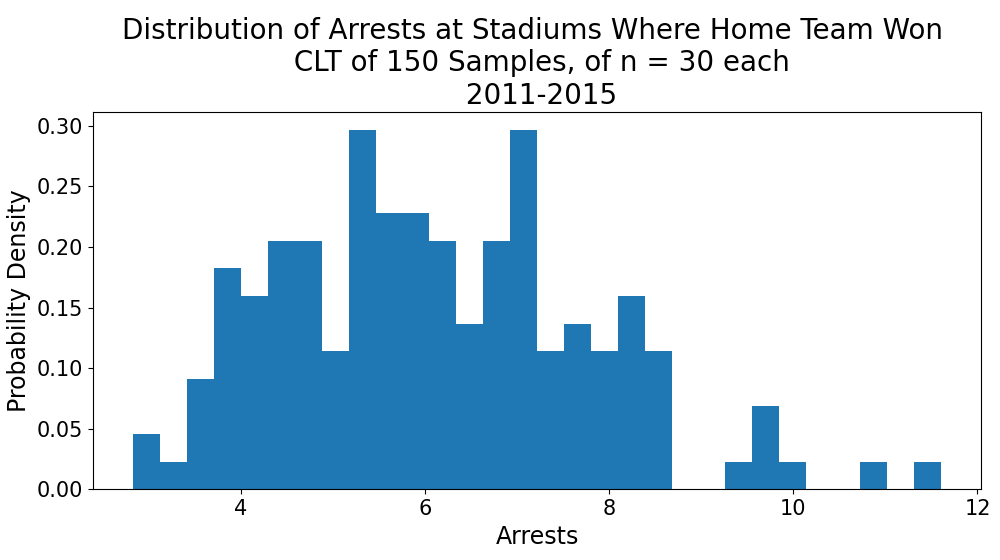
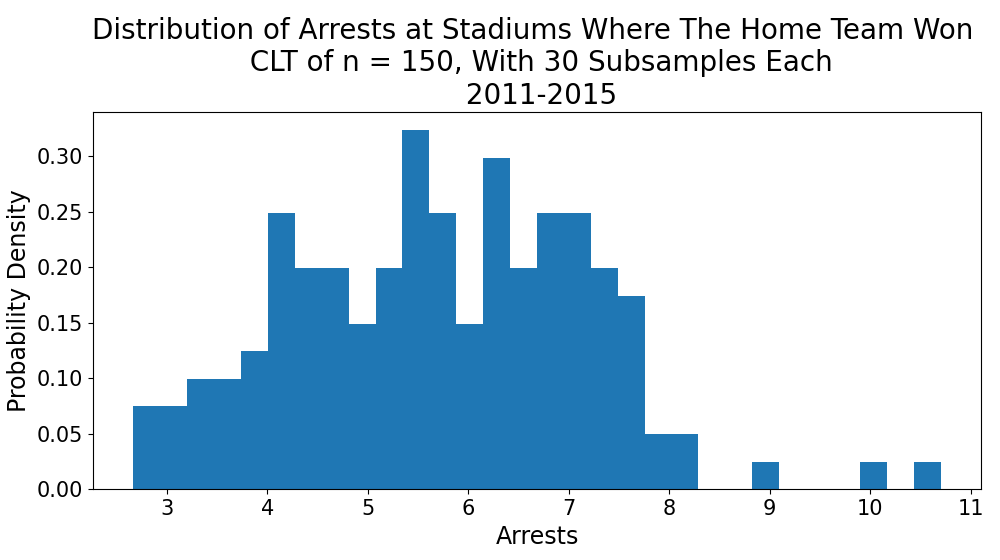
add simulated dist of clt mean for arrests

diff --git a/main.py b/main.py
@@ -248,19 +248,19 @@ pyplot.subplots_adjust(    top=top_p,
 pyplot.savefig('mt_avearrest_sc.png')
 
 
-pyplot.figure(figsize=(pt_x_size, pt_y_size), dpi=100)
-pyplot.hist(score_games_lessthan_6_home, bins=30, density= True)
-pyplot.xlabel('Points', fontsize = axis_size)
-pyplot.ylabel('Probability Density' , fontsize = axis_size)
-pyplot.tick_params(axis='both', labelsize=tick_sz)
-pyplot.title(label = "Distribution of Home Team Scores:\n Stadiums With Less Than The Mean Arrests at The Stadium\n 2011-2015", fontsize = title_sz)
-pyplot.subplots_adjust(    top=top_p,
-    bottom=bot_p,
-    left=left_p,
-    right=right_p,
-    hspace=hspace,
-    wspace=wspace)
-pyplot.savefig('lt_avearrest_sc.png')
+# pyplot.figure(figsize=(pt_x_size, pt_y_size), dpi=100)
+# pyplot.hist(score_games_lessthan_6_home, bins=30, density= True)
+# pyplot.xlabel('Points', fontsize = axis_size)
+# pyplot.ylabel('Probability Density' , fontsize = axis_size)
+# pyplot.tick_params(axis='both', labelsize=tick_sz)
+# pyplot.title(label = "Distribution of Home Team Scores:\n Stadiums With Less Than The Mean Arrests at The Stadium\n 2011-2015", fontsize = title_sz)
+# pyplot.subplots_adjust(    top=top_p,
+#     bottom=bot_p,
+#     left=left_p,
+#     right=right_p,
+#     hspace=hspace,
+#     wspace=wspace)
+# pyplot.savefig('lt_avearrest_sc.png')
 
 
 
@@ -279,19 +279,19 @@ pyplot.subplots_adjust(    top=top_p,
     wspace=wspace)
 pyplot.savefig('clt_mean_arrests.png')
 
-pyplot.figure(figsize=(pt_x_size, pt_y_size), dpi=100)
-pyplot.hist(clt_var_arrests, bins=100, density=True)
-pyplot.xlabel('Sample Variances of Arrests', fontsize = axis_size)
-pyplot.ylabel('Probability Density' , fontsize = axis_size)
-pyplot.tick_params(axis='both', labelsize=tick_sz)
-pyplot.title(label = "Distribution of the Sample Variances of Arrests \n 300 samples, each sample of n = 30 each \n 2011-2015", fontsize = title_sz)
-pyplot.subplots_adjust(    top=top_p,
-    bottom=bot_p,
-    left=left_p+.039,
-    right=right_p,
-    hspace=hspace,
-    wspace=wspace)
-pyplot.savefig('clt_var_arrests.png')
+# pyplot.figure(figsize=(pt_x_size, pt_y_size), dpi=100)
+# pyplot.hist(clt_var_arrests, bins=100, density=True)
+# pyplot.xlabel('Sample Variances of Arrests', fontsize = axis_size)
+# pyplot.ylabel('Probability Density' , fontsize = axis_size)
+# pyplot.tick_params(axis='both', labelsize=tick_sz)
+# pyplot.title(label = "Distribution of the Sample Variances of Arrests \n 300 samples, each sample of n = 30 each \n 2011-2015", fontsize = title_sz)
+# pyplot.subplots_adjust(    top=top_p,
+#     bottom=bot_p,
+#     left=left_p+.039,
+#     right=right_p,
+#     hspace=hspace,
+#     wspace=wspace)
+# pyplot.savefig('clt_var_arrests.png')
 
 
 #--Home team wins, dist of arrests
@@ -301,7 +301,7 @@ pyplot.hist(ht_win_arrests_clt, bins=30, density= True)
 pyplot.xlabel('Arrests', fontsize = axis_size)
 pyplot.ylabel('Probability Density' , fontsize = axis_size)
 pyplot.tick_params(axis='both', labelsize=tick_sz)
-pyplot.title(label = "Distribution of Arrests at Stadiums Where Home Team Won \n CLT of 150 Samples, of n = 30 each\n 2011-2015", fontsize = title_sz)
+pyplot.title(label = "Distribution of Arrests at Stadiums Where The Home Team Won \n CLT of n = 150, With 30 Subsamples Each\n 2011-2015", fontsize = title_sz)
 pyplot.subplots_adjust(    top=top_p,
     bottom=bot_p,
     left=left_p,
@@ -316,7 +316,7 @@ pyplot.hist(ht_loss_arrests_clt, bins=30, density= True)
 pyplot.xlabel('Arrests', fontsize = axis_size)
 pyplot.ylabel('Probability Density' , fontsize = axis_size)
 pyplot.tick_params(axis='both', labelsize=tick_sz)
-pyplot.title(label = "Distribution of Arrests at Stadiums Where Home Team Lost \n CLT of 150 Samples, of n = 30 each\n 2011-2015", fontsize = title_sz)
+pyplot.title(label = "Distribution of Arrests at Stadiums Where The Home Team Lost \n CLT of n = 150 Samples, With 30 Subsamples Each\n 2011-2015", fontsize = title_sz)
 pyplot.subplots_adjust(    top=top_p,
     bottom=bot_p,
     left=left_p,
@@ -334,48 +334,48 @@ pyplot.savefig('ht_loss_arr.png')
 # pyplot.hist(lose_lt_12,bins = 30, density=True)
 # pyplot.gca().set(title='Distribution of Arrests from games where the home team \nlost by less than the mean point diff',
 #                  xlabel='Arrests', ylabel='Probability')
+#
+# pyplot.figure(figsize=(pt_x_size, pt_y_size), dpi=100)
+# pyplot.hist(score_games_morethan_6_total, bins=30, density= True)
+# pyplot.xlabel('Total Points', fontsize = axis_size)
+# pyplot.ylabel('Probability Density' , fontsize = axis_size)
+# pyplot.tick_params(axis='both', labelsize=tick_sz)
+# pyplot.title(label = "Distribution of Total Points Scored, by Games With \n Above Mean Arrests"
+#                      "\n 2011-2015", fontsize = title_sz)
+# pyplot.subplots_adjust(    top=top_p,
+#     bottom=bot_p,
+#     left=left_p+.03,
+#     right=right_p,
+#     hspace=hspace,
+#     wspace=wspace)
+# pyplot.savefig('tot_points_above_mean.png')
+#
+# pyplot.figure(figsize=(pt_x_size, pt_y_size), dpi=100)
+# pyplot.hist(score_games_lessthan_6_total, bins=30, density= True)
+# pyplot.xlabel('Total Points', fontsize = axis_size)
+# pyplot.ylabel('Probability Density' , fontsize = axis_size)
+# pyplot.tick_params(axis='both', labelsize=tick_sz)
+# pyplot.title(label = "Distribution of Total Points Scored, by Games With \n Less Than Mean Arrests"
+#                      "\n 2011-2015", fontsize = title_sz)
+# pyplot.subplots_adjust(    top=top_p,
+#     bottom=bot_p,
+#     left=left_p+.03,
+#     right=right_p,
+#     hspace=hspace,
+#     wspace=wspace)
+# pyplot.savefig('tot_points_below_mean.png')
 
-pyplot.figure(figsize=(pt_x_size, pt_y_size), dpi=100)
-pyplot.hist(score_games_morethan_6_total, bins=30, density= True)
-pyplot.xlabel('Total Points', fontsize = axis_size)
-pyplot.ylabel('Probability Density' , fontsize = axis_size)
-pyplot.tick_params(axis='both', labelsize=tick_sz)
-pyplot.title(label = "Distribution of Total Points Scored, by Games With \n Above Mean Arrests"
-                     "\n 2011-2015", fontsize = title_sz)
-pyplot.subplots_adjust(    top=top_p,
-    bottom=bot_p,
-    left=left_p+.03,
-    right=right_p,
-    hspace=hspace,
-    wspace=wspace)
-pyplot.savefig('tot_points_above_mean.png')
-
-pyplot.figure(figsize=(pt_x_size, pt_y_size), dpi=100)
-pyplot.hist(score_games_lessthan_6_total, bins=30, density= True)
-pyplot.xlabel('Total Points', fontsize = axis_size)
-pyplot.ylabel('Probability Density' , fontsize = axis_size)
-pyplot.tick_params(axis='both', labelsize=tick_sz)
-pyplot.title(label = "Distribution of Total Points Scored, by Games With \n Less Than Mean Arrests"
-                     "\n 2011-2015", fontsize = title_sz)
-pyplot.subplots_adjust(    top=top_p,
-    bottom=bot_p,
-    left=left_p+.03,
-    right=right_p,
-    hspace=hspace,
-    wspace=wspace)
-pyplot.savefig('tot_points_below_mean.png')
-
-
-pyplot.figure(figsize=(pt_x_size, pt_y_size), dpi=100)
-sub = pyplot.barh(total_arrests_by_teams['home_team'],total_arrests_by_teams['total_arr'])
-pyplot.bar_label(sub)
-pyplot.xlabel("Arrests",fontsize = axis_size)
-pyplot.ylabel("Home Team", fontsize = axis_size)
-pyplot.tick_params(axis='both', labelsize=tick_sz)
-pyplot.title("Arrests of Fans by Home Team Stadium, 2011-2015",fontsize=title_sz)
-pyplot.subplots_adjust(
-    left= .226,)
-pyplot.savefig('ArrestsByHomeTeam.png')
+#
+# pyplot.figure(figsize=(pt_x_size, pt_y_size), dpi=100)
+# sub = pyplot.barh(total_arrests_by_teams['home_team'],total_arrests_by_teams['total_arr'])
+# pyplot.bar_label(sub)
+# pyplot.xlabel("Arrests",fontsize = axis_size)
+# pyplot.ylabel("Home Team", fontsize = axis_size)
+# pyplot.tick_params(axis='both', labelsize=tick_sz)
+# pyplot.title("Arrests of Fans by Home Team Stadium, 2011-2015",fontsize=title_sz)
+# pyplot.subplots_adjust(
+#     left= .226,)
+# pyplot.savefig('ArrestsByHomeTeam.png')
 
 
 # pyplot.barh(avg_arrests_per_game['home_team'],avg_arrests_per_game['mean_arr'])
